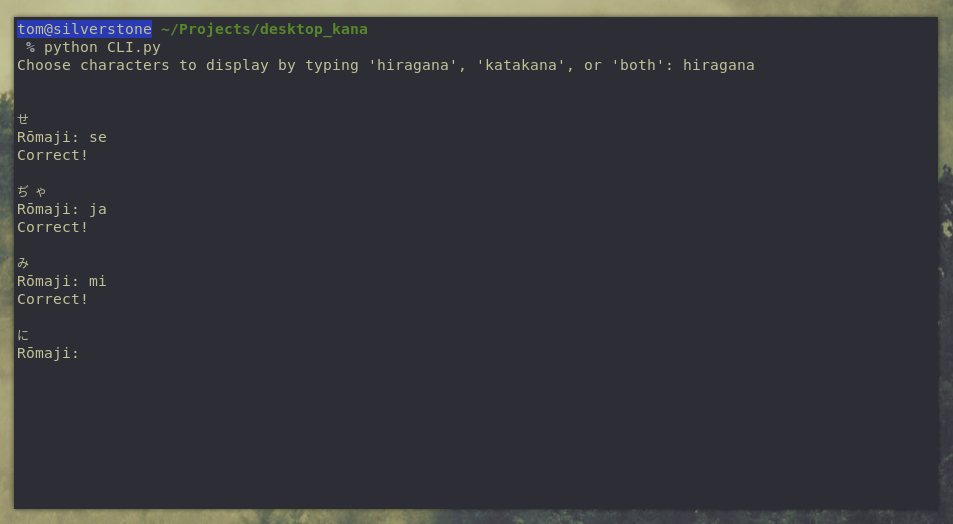
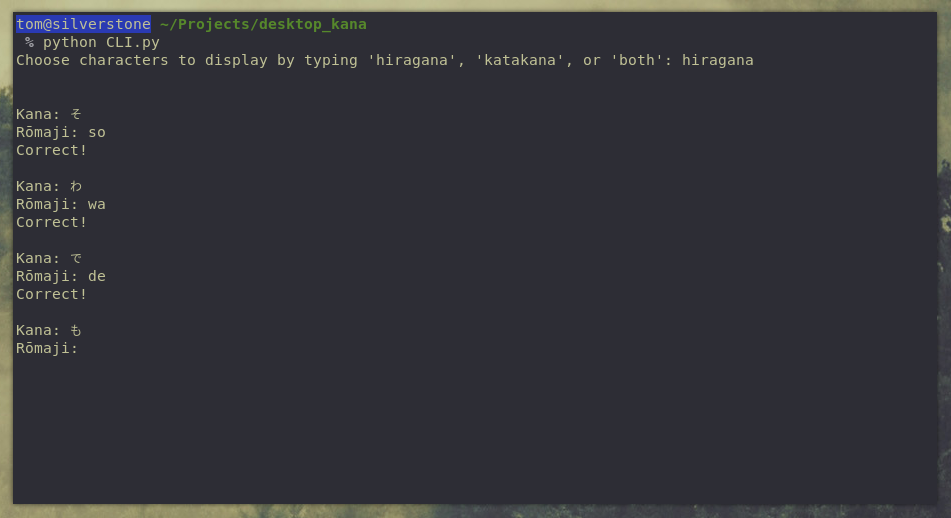
Update CLI

diff --git a/CLI.py b/CLI.py
@@ -24,7 +24,7 @@ while run:
     if new_prompt:
         kana_num = randint(0, len(kana_list) - 1)
     current_kana = kana_list[kana_num]
-    print(current_kana)
+    print('Kana: ' + current_kana)
     search_input = input('Rōmaji: ')
     if search_input == 'exit':
         exit()
